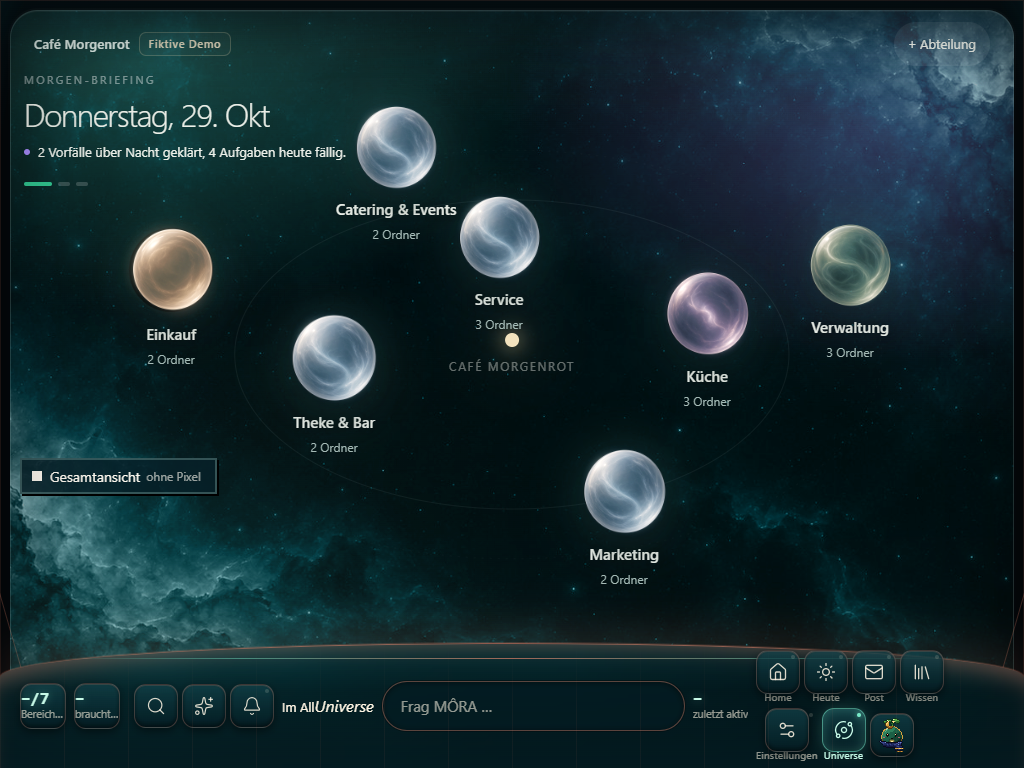
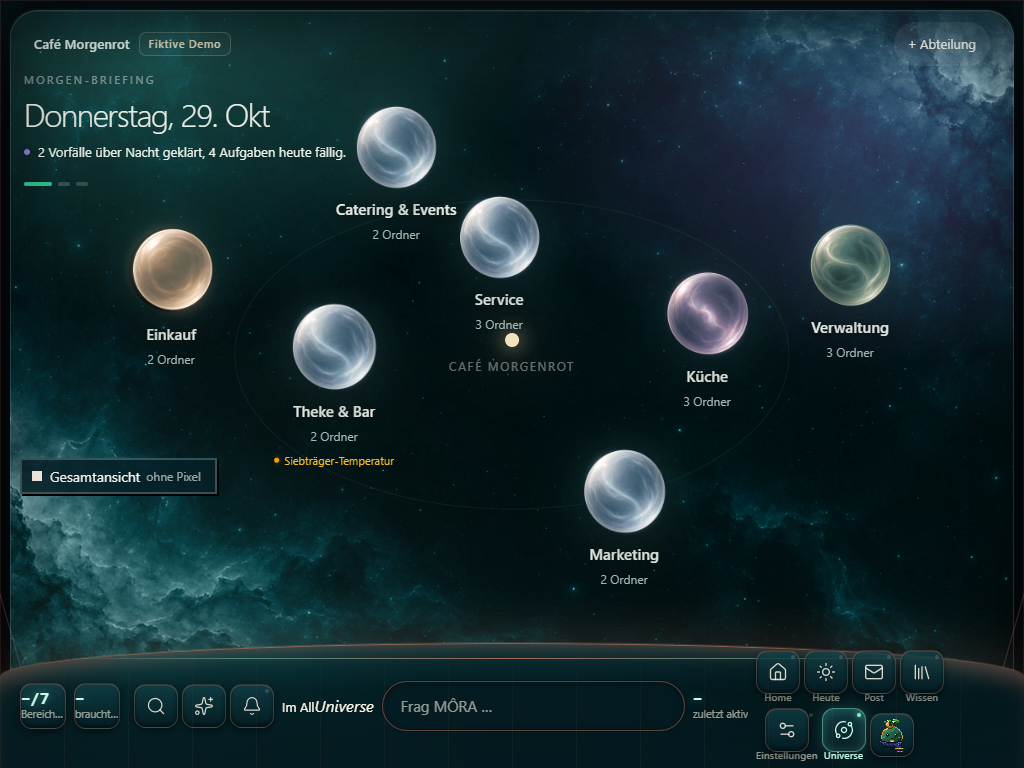
fix(universe): signale an glasplaneten, reine core-daten, datumskonsistenz & handy-layout

Changed region(s): [[0.2812, 0.375, 0.375, 0.625]]

diff --git a/features/universe/ui/UnifiedUniverse.tsx b/features/universe/ui/UnifiedUniverse.tsx
@@ -15,7 +15,7 @@ import { useSessionStore } from '@/lib/store/sessionStore';
 import { useOsShellStore } from '@/lib/os-prototype/shellStore';
 import { hasFiktivMarker, stripFiktiv } from '@/lib/demo/morgenrot/stripFiktiv';
 import { MORGENROT } from '@/lib/demo/morgenrot/online';
-import { MORGENROT_STRUCTURE, type DemoPlanet } from '@/lib/demo/morgenrot/structure';
+import type { DemoPlanet } from '@/lib/demo/morgenrot/structure';
 import { useActiveCompanyIsDemo } from '@/lib/hooks/useIsSaimorInternal';
 import { useNavPos } from '@/lib/mora/navPos';
 import { useNightwatchIncidents } from '@/lib/queries/useNightwatchIncidents';
@@ -271,7 +271,7 @@ function PixelUniverseOverview({
                   <span
                     className="ck-incident-tag"
                     style={{
-                      color: 'var(--rose, #f87171)',
+                      color: '#fbbf24',
                       fontSize: 11,
                       fontWeight: 500,
                       display: 'flex',
@@ -280,7 +280,7 @@ function PixelUniverseOverview({
                       gap: 4,
                     }}
                   >
-                    ● Vorfall ({incCount})
+                    <i style={{ width: 5, height: 5, borderRadius: '50%', background: '#f59e0b', display: 'inline-block' }} /> Vorfall ({incCount})
                   </span>
                 ) : null}
               </span>
@@ -390,26 +390,48 @@ export function UnifiedUniverse({
   );
 
   // Real CORE departments from useWorld().finder (Ohne Abteilung already filtered out)
-  // Fallback to MORGENROT_STRUCTURE when offline/demo so planets are always visible
+  // Only real data from CORE is shown — no fictional fallback
   const planets: DemoPlanet[] = useMemo(() => {
-    const fromWorld = finderToCockpitPlanets(world.finder);
-    if (fromWorld.length > 0) return fromWorld;
-    if (effectiveIsDemo) {
-      return MORGENROT_STRUCTURE.map((p) => ({
-        ...p,
-        title: stripFiktiv(p.title) || p.title,
-      }));
-    }
-    return [];
-  }, [world.finder, effectiveIsDemo]);
-
-  const { attention } = useMemo(
-    () => deriveLiveAttention(snapshot, navigate),
-    [snapshot, navigate]
-  );
+    return finderToCockpitPlanets(world.finder);
+  }, [world.finder]);
 
   // Nightwatch incidents & daily briefing
   const { data: nightwatchIncidents = [] } = useNightwatchIncidents(false);
+
+  const { attention } = useMemo(
+    () => deriveLiveAttention(snapshot, navigate, nightwatchIncidents),
+    [snapshot, navigate, nightwatchIncidents]
+  );
+
+  const planetSignals = useMemo(() => {
+    const map = new Map<string, { isAlarm: boolean; reason: string }>();
+    planets.forEach((p) => {
+      const incs = filterIncidentsForDepartment(nightwatchIncidents, p.id);
+      const crit = incs.find((i) => i.severity === 'critical' || i.severity === 'fatal');
+      if (crit) {
+        map.set(p.id, { isAlarm: true, reason: crit.title || 'Kritischer Vorfall' });
+        return;
+      }
+      if (incs.length > 0) {
+        map.set(p.id, { isAlarm: false, reason: incs[0].title || 'Vorfall in Prüfung' });
+        return;
+      }
+      const overdue = (snapshot?.tasks?.overdue ?? []).filter((t) => t.department_id === p.id);
+      if (overdue.length > 0) {
+        map.set(p.id, { isAlarm: false, reason: overdue[0].title || `${overdue.length} überfällige Aufgabe` });
+        return;
+      }
+      const due = (snapshot?.tasks?.due_today ?? []).filter((t) => t.department_id === p.id);
+      if (due.length > 0) {
+        map.set(p.id, { isAlarm: false, reason: due[0].title || `${due.length} heute fällig` });
+        return;
+      }
+      if (attention.has(p.id)) {
+        map.set(p.id, { isAlarm: false, reason: 'Braucht dich' });
+      }
+    });
+    return map;
+  }, [planets, nightwatchIncidents, snapshot?.tasks, attention]);
   const { data: dailyBriefing } = useDailyBriefing();
 
   const planet = planets.find((p) => p.id === planetId) ?? null;
@@ -529,10 +551,19 @@ export function UnifiedUniverse({
         <div className="ck-space" aria-hidden />
       )}
 
-      {/* Version B style switcher positioned on the left at ~half height (single switcher) */}
+      {/* Version B style switcher: Auf Desktop links, auf dem Handy unten über dem Dock (überdeckt keine Planeten) */}
       <button
         type="button"
         className="wd-view ck-style-toggle"
+        style={phone ? {
+          position: 'absolute',
+          bottom: 'calc(var(--os-dock-space, 72px) + 14px)',
+          left: 14,
+          height: 30,
+          padding: '0 10px 0 8px',
+          fontSize: 11,
+          zIndex: 50,
+        } : undefined}
         aria-pressed={planetStyle === 'pixel'}
         onClick={() => toggleStyle()}
         data-testid="world-view-toggle"
@@ -682,6 +713,7 @@ export function UnifiedUniverse({
           <PlanetSystem
             planets={planets}
             attention={attention}
+            signals={planetSignals}
             company={companyName}
             compact={false}
             style={planetStyle}

diff --git a/features/home/cockpit/LiveCockpit.tsx b/features/home/cockpit/LiveCockpit.tsx
@@ -6,6 +6,7 @@ import { PlanetSystem } from './Scene';
 import { HomeOverview } from '../widgets/HomeOverview';
 import { widgetsFromToday } from '../widgets/adapters';
 import { useScopedToday } from '@/lib/os/useScopedToday';
+import { useNightwatchIncidents } from '@/lib/queries/useNightwatchIncidents';
 import { useSessionStore } from '@/lib/store/sessionStore';
 import { firstName } from '@/lib/auth/displayName';
 import type { FeatureSurfaceProps } from '../../types';
@@ -107,10 +108,59 @@ export function LiveCockpit({
     return [];
   }, [rawDepts, finderPlanets]);
 
+  const { data: nightwatchIncidents = [] } = useNightwatchIncidents(false);
   const { attention, items } = useMemo(
-    () => deriveLiveAttention(snapshot, navigate),
-    [snapshot, navigate]
+    () => deriveLiveAttention(snapshot, navigate, nightwatchIncidents),
+    [snapshot, navigate, nightwatchIncidents]
   );
+
+  const planetSignals = useMemo(() => {
+    const map = new Map<string, { isAlarm: boolean; reason: string }>();
+    planets.forEach((p) => {
+      const incs = nightwatchIncidents.filter((i) => i.department_id === p.id);
+      const crit = incs.find((i) => i.severity === 'critical' || i.severity === 'fatal');
+      if (crit) {
+        map.set(p.id, { isAlarm: true, reason: crit.title || 'Kritischer Vorfall' });
+        return;
+      }
+      if (incs.length > 0) {
+        map.set(p.id, { isAlarm: false, reason: incs[0].title || 'Vorfall in Prüfung' });
+        return;
+      }
+      const overdue = (snapshot?.tasks?.overdue ?? []).filter((t) => t.department_id === p.id);
+      if (overdue.length > 0) {
+        map.set(p.id, { isAlarm: false, reason: overdue[0].title || `${overdue.length} überfällige Aufgabe` });
+        return;
+      }
+      const due = (snapshot?.tasks?.due_today ?? []).filter((t) => t.department_id === p.id);
+      if (due.length > 0) {
+        map.set(p.id, { isAlarm: false, reason: due[0].title || `${due.length} heute fällig` });
+        return;
+      }
+      if (attention.has(p.id)) {
+        map.set(p.id, { isAlarm: false, reason: 'Braucht dich' });
+      }
+    });
+    return map;
+  }, [planets, nightwatchIncidents, snapshot?.tasks, attention]);
+
+  const timeHeader = useMemo(() => {
+    const rawDate = snapshot?.calendar?.date;
+    if (rawDate) {
+      const d = new Date(rawDate);
+      if (!isNaN(d.getTime())) {
+        const dayName = d.toLocaleDateString('de-DE', { weekday: 'short' });
+        const dayNum = d.getDate();
+        const monthName = d.toLocaleDateString('de-DE', { month: 'short' });
+        return `${dayName}, ${dayNum}. ${monthName} · 07:00`;
+      }
+    }
+    const now = new Date();
+    const dayName = now.toLocaleDateString('de-DE', { weekday: 'short' });
+    const dayNum = now.getDate();
+    const monthName = now.toLocaleDateString('de-DE', { month: 'short' });
+    return `${dayName}, ${dayNum}. ${monthName} · 07:00`;
+  }, [snapshot?.calendar?.date]);
 
   // Home is an overview, not a second Universe. Every entry goes to the same
   // CORE-backed FinderVerse used by Heute and the dock, with the real target ID.
@@ -141,7 +191,7 @@ export function LiveCockpit({
 
   const subline = liveLoading && propSnapshot === undefined
     ? 'Quellen werden geladen …'
-    : !snapshot || (loadError && propSnapshot === undefined)
+    : loadError && propSnapshot === undefined && !liveLoading
     ? 'Quellen sind derzeit nicht verfügbar.'
     : items.length
     ? `${items.length === 1 ? 'Ein Ding braucht' : items.length === 2 ? 'Zwei Dinge brauchen' : 'Drei Dinge brauchen'} dich.`
@@ -176,6 +226,7 @@ export function LiveCockpit({
           <PlanetSystem
             planets={planets}
             attention={attention}
+            signals={planetSignals}
             company={companyName}
             compact
             onOpen={openDepartment}
@@ -191,7 +242,7 @@ export function LiveCockpit({
           <span>{companyName}</span>
         </div>
         <div className="ck-top__r">
-          <span className="ck-time">Mi, 28. Okt · 07:00</span>
+          <span className="ck-time">{timeHeader}</span>
           <span>aus CORE</span>
           {effectiveIsDemo ? (
             <span

diff --git a/features/home/cockpit/Scene.tsx b/features/home/cockpit/Scene.tsx
@@ -132,6 +132,7 @@ export function PlanetSystem({
   compact,
   strip,
   style = 'glas',
+  signals,
 }: {
   planets: DemoPlanet[];
   onOpen: (id: string) => void;
@@ -140,6 +141,7 @@ export function PlanetSystem({
   compact?: boolean;
   strip?: boolean;
   style?: 'glas' | 'pixel';
+  signals?: Map<string, { isAlarm: boolean; reason: string }>;
 }) {
   const containerRef = useRef<HTMLDivElement>(null);
   const [size, setSize] = useState<{ width: number; height: number }>({
@@ -220,8 +222,47 @@ export function PlanetSystem({
             ) : (
               <GlassOrb size={orbSize} variant={glassVariantFor(cleanTitle)} />
             )}
-            <b>{cleanTitle}{attention.has(p.id) ? <i aria-label="braucht dich" /> : null}</b>
+            <b>{cleanTitle}</b>
             <small>{folderCount > 0 ? `${folderCount} ${folderCount === 1 ? 'Ordner' : 'Ordner'}` : 'Noch keine Ordner'}</small>
+            {(() => {
+              const sig = signals?.get(p.id) || (attention.has(p.id) ? { isAlarm: false, reason: 'Braucht dich' } : null);
+              if (!sig) return null;
+              return (
+                <span
+                  className="ck-planet__signal"
+                  data-testid={`planet-signal-${p.id}`}
+                  style={{
+                    display: 'inline-flex',
+                    alignItems: 'center',
+                    gap: 5,
+                    marginTop: 3,
+                    fontSize: 11,
+                    lineHeight: 1.2,
+                    color: sig.isAlarm ? '#f87171' : '#fbbf24',
+                    maxWidth: 150,
+                    whiteSpace: 'nowrap',
+                    overflow: 'hidden',
+                    textOverflow: 'ellipsis',
+                  }}
+                >
+                  <i
+                    style={{
+                      display: 'inline-block',
+                      width: 5,
+                      height: 5,
+                      borderRadius: '50%',
+                      background: sig.isAlarm ? '#ef4444' : '#f59e0b',
+                      boxShadow: sig.isAlarm ? '0 0 6px rgba(239,68,68,0.7)' : '0 0 6px rgba(245,158,11,0.6)',
+                      flexShrink: 0,
+                    }}
+                    aria-hidden
+                  />
+                  <span style={{ overflow: 'hidden', textOverflow: 'ellipsis' }}>
+                    {sig.reason}
+                  </span>
+                </span>
+              );
+            })()}
           </button>
         );
       })}

diff --git a/features/home/cockpit/coreAdapter.ts b/features/home/cockpit/coreAdapter.ts
@@ -1,3 +1,4 @@
+import type { NightwatchIncidentItem } from '@/lib/openflow/nightwatch';
 import type { DemoFile, DemoMoon, DemoPlanet } from '@/lib/demo/morgenrot/structure';
 import { stripFiktiv } from '@/lib/demo/morgenrot/stripFiktiv';
 import type { TodaySnapshot } from '@/lib/api/todayClient';
@@ -239,13 +240,34 @@ export function coreTreeToPlanets(rawTreeOrDepartments: any): DemoPlanet[] {
  */
 export function deriveLiveAttention(
   snapshot: TodaySnapshot | null | undefined,
-  navigate?: (featureId: string) => void
+  navigate?: (featureId: string) => void,
+  incidents?: NightwatchIncidentItem[]
 ): {
   attention: Set<string>;
   items: LiveAttentionItem[];
 } {
   const attention = new Set<string>();
   const items: LiveAttentionItem[] = [];
+
+  // Incidents take top priority - an open incident prevents "Alles erledigt"
+  if (incidents && incidents.length > 0) {
+    const openIncs = incidents.filter((i) => i.status !== 'resolved');
+    if (openIncs.length > 0) {
+      const firstInc = openIncs[0];
+      const isCritical = firstInc.severity === 'critical' || firstInc.severity === 'fatal';
+      items.push({
+        id: `incident-${firstInc.id}`,
+        title: firstInc.title || `Vorfall: ${firstInc.department_id || 'Infrastruktur'}`,
+        detail: isCritical ? 'Kritischer Vorfall in Nightwatch' : 'Vorfall in Untersuchung',
+        action: 'Vorfall prüfen',
+        primary: true,
+        onAction: () => navigate?.('nightwatch'),
+      });
+      if (firstInc.department_id) {
+        attention.add(firstInc.department_id);
+      }
+    }
+  }
 
   if (!snapshot) {
     return { attention, items };

diff --git a/app/world.css b/app/world.css
@@ -1080,6 +1080,9 @@ body:has(.wd-universe[data-view='pixel']) .os-atmo { background: #05060d !import
 .wd-view[aria-pressed='true'] i { background: none; box-shadow: inset 0 0 0 2px currentColor; }
 .wd-view:hover { border-color: rgba(190, 205, 250, .7); }
 .wd-view:focus-visible { outline: 2px solid var(--sv-jade); outline-offset: 2px; }
+@media (max-width: 899px) {
+  .wd-view { bottom: calc(var(--os-dock-space, 72px) + 14px) !important; left: 14px !important; height: 30px !important; padding: 0 10px 0 8px !important; font-size: 11px !important; z-index: 50 !important; }
+}
 .wd-universe[data-view='pixel'] .wd-zoom button, .wd-universe[data-view='pixel'] .wd-legend summary { border-radius: 0; border: 2px solid rgba(132, 150, 214, .3); background: #0a0c18; box-shadow: 2px 2px 0 #000; }
 .wd-universe[data-view='pixel'] .wd-counter { border-radius: 0; background: #0a0c18; border: 2px solid rgba(132, 150, 214, .25); }
 @media (prefers-reduced-motion: reduce) { .wd-sky__twinkle { animation: none; } }
